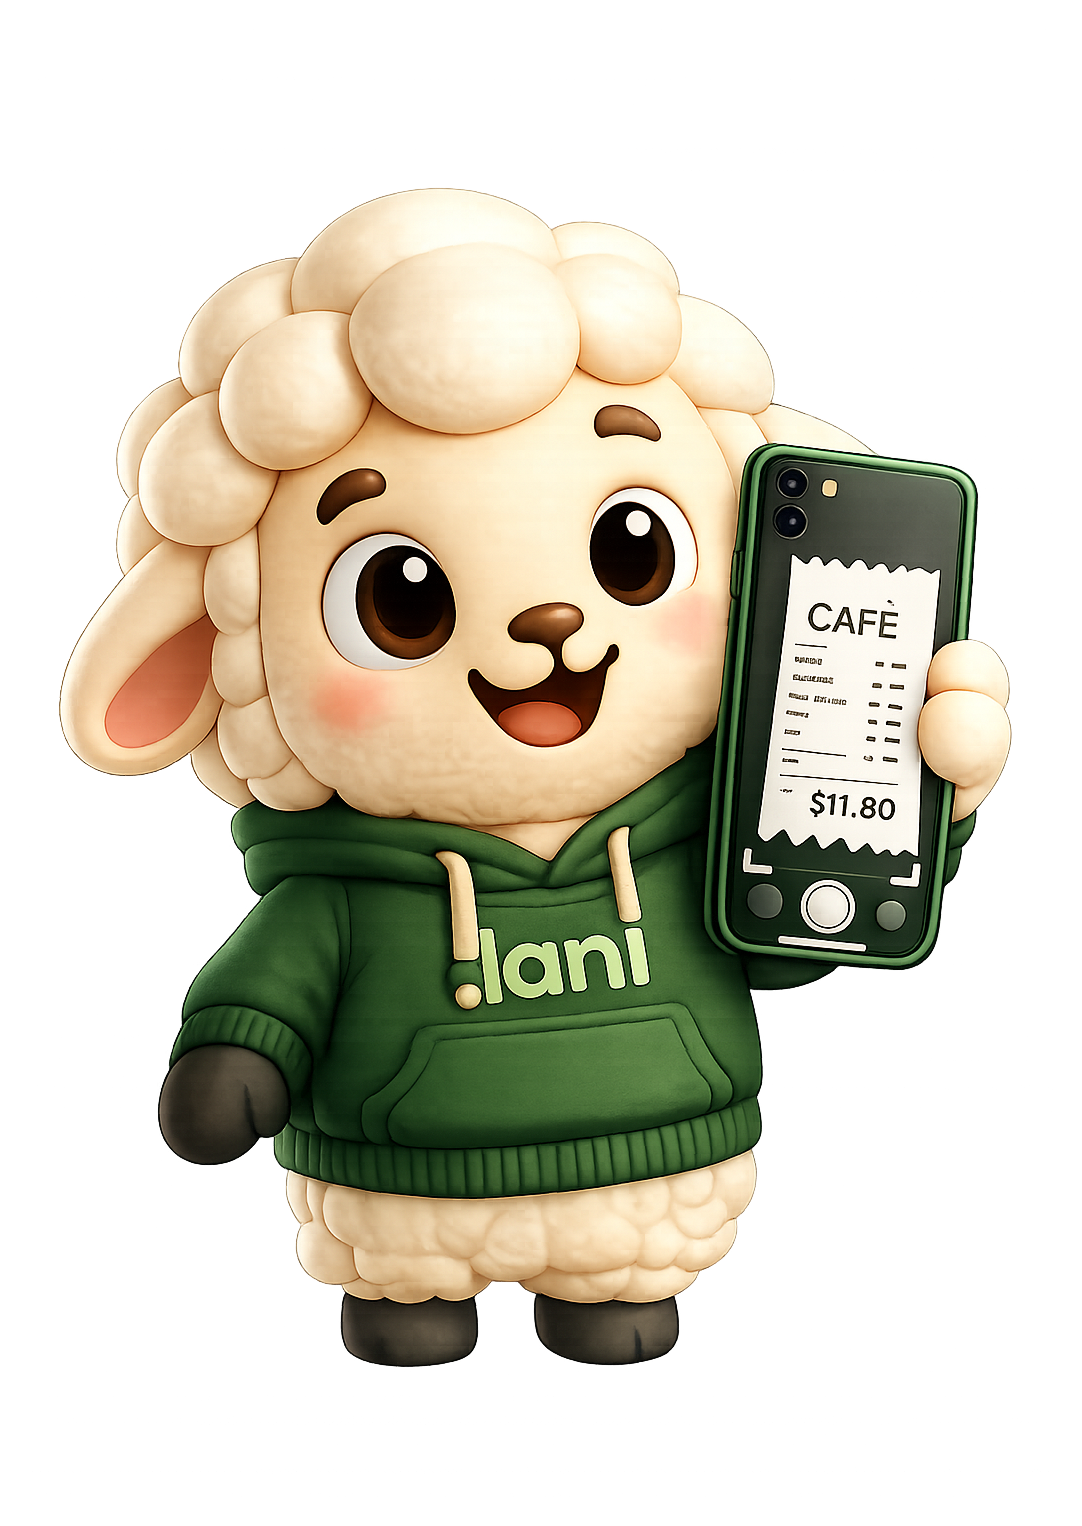
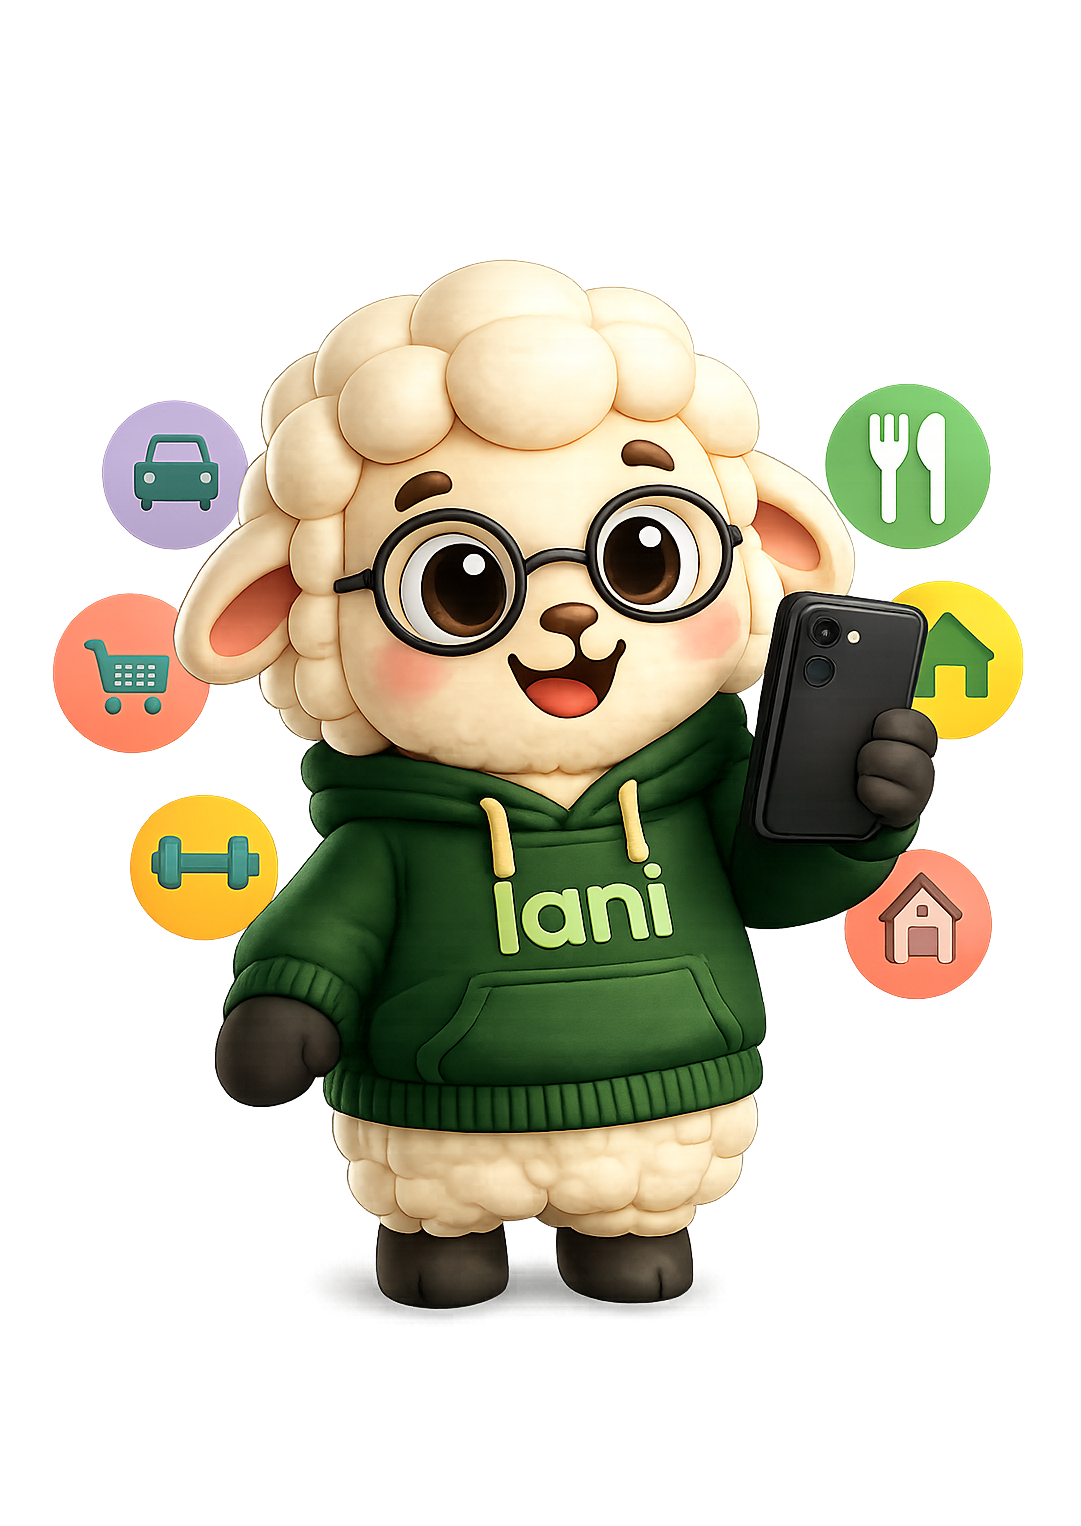
fix: imagen correcta en pantalla 4 + alturas calibradas por pantalla
- Lani_categorias_crop.png: imagen correcta con fondo removido por flood fill
- Alturas ajustadas para que Lani se vea igual en todas las pantallas:
  pantalla 1,3,5,6: 92% | pantalla 2 (ticket): 104% | pantalla 4 (categorias): 115%
- Asignaciones correctas: screen2=ticket, screen4=categorias

diff --git a/src/components/OnboardingStep1.tsx b/src/components/OnboardingStep1.tsx
@@ -3,14 +3,17 @@
 import { useState, useRef, useEffect, useCallback } from "react";
 
 // ── Pantallas ─────────────────────────────────────────────────────────────────
-// altura: % del contenedor visible — ajustado para que Lani se vea igual de grande en todas las pantallas
+// altura: % del contenedor — calculado para que Lani se vea igual de grande en todas las pantallas
+// Referencia: Lani_cropped (96% contenido) a 92% → Lani visual ≈ 88% del contenedor
+// Lani_ticket_crop (85% contenido) → 92% / 85% * 96% ≈ 104%
+// Lani_categorias_crop (77% contenido) → 92% / 77% * 96% ≈ 115%
 const PANTALLAS = [
-  { id: 1, titulo: "¡Hola! Soy Lani",            subtitulo: "Estoy aquí para ayudarte con tu dinero, sin estrés.", cta: "Continuar", imagen: "/Lani_cropped.png",         altura: "92%" },
-  { id: 2, titulo: "Toma una foto a tu ticket",   subtitulo: "Yo registro todo automáticamente.",                  cta: "Continuar", imagen: "/Lani_categorias_crop.png", altura: "92%" },
-  { id: 3, titulo: "Háblame por WhatsApp",         subtitulo: "Solo dime lo que gastaste.",                         cta: "Continuar", imagen: "/Lani_cropped.png",         altura: "92%" },
-  { id: 4, titulo: "Yo organizo todo",             subtitulo: "Tus gastos se ordenan solos.",                       cta: "Continuar", imagen: "/Lani_ticket_crop.png",     altura: "92%" },
-  { id: 5, titulo: "Entiende tu dinero",           subtitulo: "Gráficas simples y claras.",                         cta: "Continuar", imagen: "/Lani_cropped.png",         altura: "92%" },
-  { id: 6, titulo: "Cumple tus metas",             subtitulo: "Ahorra y celebra conmigo.",                          cta: "¡Empezar!", imagen: "/Lani_cropped.png",         altura: "92%" },
+  { id: 1, titulo: "¡Hola! Soy Lani",            subtitulo: "Estoy aquí para ayudarte con tu dinero, sin estrés.", cta: "Continuar", imagen: "/Lani_cropped.png",         altura: "92%"  },
+  { id: 2, titulo: "Toma una foto a tu ticket",   subtitulo: "Yo registro todo automáticamente.",                  cta: "Continuar", imagen: "/Lani_ticket_crop.png",     altura: "104%" },
+  { id: 3, titulo: "Háblame por WhatsApp",         subtitulo: "Solo dime lo que gastaste.",                         cta: "Continuar", imagen: "/Lani_cropped.png",         altura: "92%"  },
+  { id: 4, titulo: "Yo organizo todo",             subtitulo: "Tus gastos se ordenan solos.",                       cta: "Continuar", imagen: "/Lani_categorias_crop.png", altura: "115%" },
+  { id: 5, titulo: "Entiende tu dinero",           subtitulo: "Gráficas simples y claras.",                         cta: "Continuar", imagen: "/Lani_cropped.png",         altura: "92%"  },
+  { id: 6, titulo: "Cumple tus metas",             subtitulo: "Ahorra y celebra conmigo.",                          cta: "¡Empezar!", imagen: "/Lani_cropped.png",         altura: "92%"  },
 ];
 
 // ── Texto con fade+slide al cambiar pantalla ──────────────────────────────────
